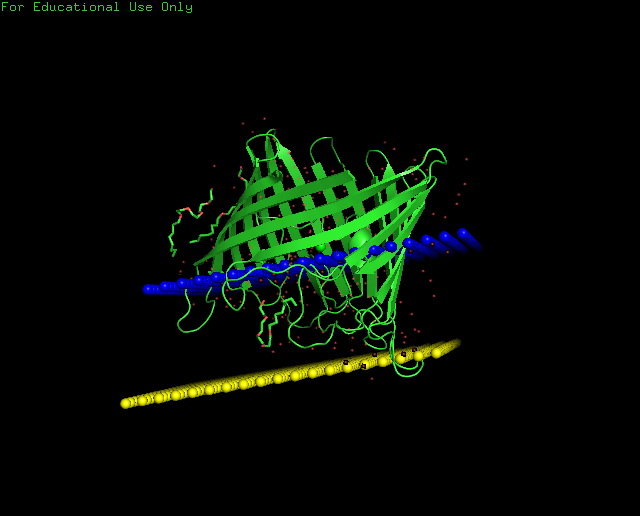
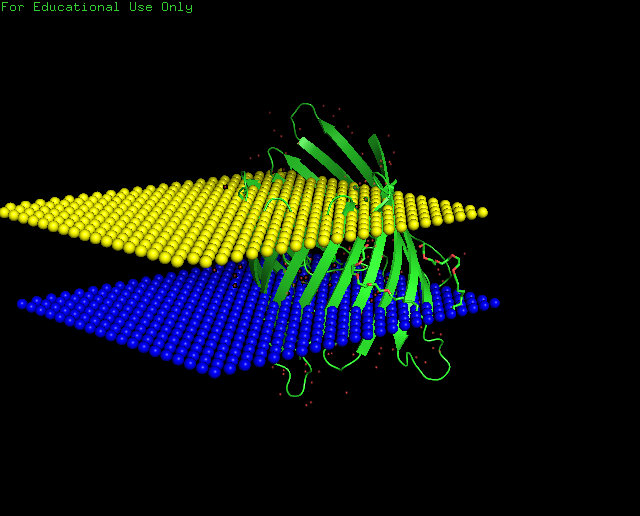
Added the functionnality of optimising th mebrane width

Changed region(s): [[0.0, 0.2171, 0.7812, 0.8062], [0.4688, 0.186, 0.5, 0.2171]]

diff --git a/src/Protein.py b/src/Protein.py
@@ -233,7 +233,7 @@ if __name__ == '__main__':
 
     protein = parse_pdb(args.filename)
     # Number of points
-    n = 10
+    n = 15
 
     directions = Vector.find_points(n, protein.mass_center)
     print("Calculating the planes... ")
@@ -264,8 +264,6 @@ if __name__ == '__main__':
         
         print("BEST AXIS AFTER ABOVE EXPLORATION", best_axis_tmp)
         
-        
-
         # Resetting start positions
         plane1 = Vector.Plane(point=point, normal=normal)
         plane2 = plane1.complementary(14)  # 14 Angstrom, à voir pour la modularité TODO
@@ -302,62 +300,54 @@ if __name__ == '__main__':
     gap = 1
     # Keeping in mynid what was the best axis with the best planes yet :
     best_axis_tmp = copy.deepcopy(best_axis)
-
-    best_axis.plane2.slide_plane(-gap) 
-    print("WIDTH IS NOW", abs(best_axis.plane1.d - best_axis.plane2.d))
+    best_axis.plane2.slide_plane(gap) 
     
     while best_axis.explore_axe_bis(protein.amino_acid_sequence, ref =best_axis_tmp ): 
             print("IN",best_axis.best_ratio, best_axis_tmp.best_ratio)
-            """if  best_axis.best_ratio > best_axis_tmp.best_ratio : 
-                best_axis_tmp = copy.deepcopy(best_axis)
-                print("BEST AXIS IMPROVED BELOW")"""
             # Sliding the planes if necessary
-            best_axis.plane2.slide_plane(-gap)
+            best_axis.plane2.slide_plane(gap)
            
     print("WIDTH 1 IS", abs(best_axis_tmp.plane1.d - best_axis_tmp.plane2.d))
    
     # best_axis_tmp is the best yet
     best_axis_tmp2 = copy.deepcopy(best_axis_tmp)
-    best_axis_tmp.plane2.slide_plane(gap)
+    best_axis_tmp.plane2.slide_plane(-gap)
     while best_axis_tmp.explore_axe_bis(protein.amino_acid_sequence, ref =best_axis_tmp2 ): 
             print("IN2")
             """if best_axis_tmp.best_ratio > best_axis_tmp.best_ratio : 
                 best_axis_tmp2 = copy.deepcopy(best_axis_tmp)"""
                 #print("BEST AXIS IMPROVED ABOVE")
             # Sliding the planes if necessary
-            best_axis_tmp.plane2.slide_plane(gap)
+            best_axis_tmp.plane2.slide_plane(-gap)
             
     print("WIDTH 2 IS", abs(best_axis_tmp2.plane1.d - best_axis_tmp2.plane2.d))
-
+        
     # best_axis_tmp is the best yet
     best_axis_tmp3 = copy.deepcopy(best_axis_tmp2)
     best_axis_tmp2.plane1.slide_plane(-gap)
     while best_axis_tmp2.explore_axe_bis(protein.amino_acid_sequence, ref =best_axis_tmp3 ): 
             print("IN3")
-            """if best_axis_tmp2.best_ratio > best_axis_tmp2.best_ratio : 
-                best_axis_tmp3 = copy.deepcopy(best_axis_tmp2)"""
+           
                 #print("BEST AXIS IMPROVED below")
             # Sliding the planes if necessary
             best_axis_tmp2.plane1.slide_plane(-gap)
             
     print("WIDTH 3 IS", abs(best_axis_tmp3.plane1.d - best_axis_tmp3.plane2.d))
-     # best_axis_tmp is the best yet
+    
+      # best_axis_tmp is the best yet
     best_axis_tmp4 = copy.deepcopy(best_axis_tmp3)
     best_axis_tmp3.plane1.slide_plane(gap)
-    while best_axis_tmp2.explore_axe_bis(protein.amino_acid_sequence, ref =best_axis_tmp4 ): 
+    while best_axis_tmp3.explore_axe_bis(protein.amino_acid_sequence, ref =best_axis_tmp4 ): 
             print("IN4")
-            """if best_axis_tmp3.best_ratio > best_axis_tmp3.best_ratio : 
-                best_axis_tmp4 = copy.deepcopy(best_axis_tmp3)"""
-                #print("BEST AXIS IMPROVED below")
             # Sliding the planes if necessary
             best_axis_tmp3.plane1.slide_plane(gap)
            
     # At the end, the best axis with the good planes positions is in best_axis_tmp2
     #print("BEST AXIS OVERALL IS ", best_axis_tmp2, "WITH PLANES = ", best_axis.plane1, best_axis.plane2)
     print("WIDTH IS", abs(best_axis_tmp4.plane1.d - best_axis_tmp4.plane2.d))
-    best_axis_tmp4.plane1.d = best_axis_tmp4.plane2.d + 20
-    # A mettre à la toute fin : 
-    show_in_pymol(best_axis_tmp4.plane1,best_axis_tmp4.plane2, args.filename, mass_center=protein.mass_center)    
+    show_in_pymol(best_axis_tmp4.plane1,best_axis_tmp4.plane2, args.filename, mass_center=protein.mass_center)
+    # A mettre à la toute fin : """
+    #show_in_pymol(best_axis_tmp4.plane1,best_axis_tmp4.plane2, args.filename, mass_center=protein.mass_center)    
 
   
 

diff --git a/src/Vector.py b/src/Vector.py
@@ -151,7 +151,6 @@ class Axis:
     def explore_axe_bis(self, amino_acid_sequence,ref):
         in_between_planes = []
         number_atoms_in_between = 0 # en vrai sert à rien vu que c'est len de in_between_planes. 
-        number_atoms_hits = 0
         for aa in (amino_acid_sequence):
             if (self.plane1.is_below(aa.point) and self.plane2.is_above(aa.point)) or (self.plane2.is_below(
                     aa.point) and self.plane1.is_above(aa.point)):
@@ -159,7 +158,7 @@ class Axis:
                 in_between_planes.append(aa)
 
         number_atoms_in_between = len(in_between_planes)
-
+        print("NB ATOMS CONSIDERED", number_atoms_in_between)
         # When no more atoms between the two planes, exiting the function, we stop the exploring on this side of the axis
         if number_atoms_in_between == 0:
             print("No more atoms in between")
@@ -170,20 +169,23 @@ class Axis:
         # TODO : améliorer hydrophobicité seulement si le nombre de résidus hydrophobes et le total sont plus grand qu'avant ???
         print("NHITS was", ref.best_number_hits)
         print("N_tot was", ref.best_number_aa)
-        print("HYDROPHOBICITY was",ref.best_hydrophobicity)        
-
-
-        if  hydrophobicity > ref.best_hydrophobicity and n_hits > ref.best_number_hits and n_total > ref.best_number_aa:
+        print("HYDROPHOBICITY was",hydrophobicity)     
+        print("NHITS REF",n_hits)
+        print("N_tot REF", n_total)
+        print("HYDROPHOBICITY REF",ref.best_hydrophobicity)      
+        if  hydrophobicity > ref.best_hydrophobicity and number_atoms_in_between > ref.best_number_aa:
             # Updating the "best" match
             """print("NHITS was", ref.best_number_hits)
             print("N_tot was", ref.best_number_aa)
             print("HYDROPHOBICITY was",ref.best_hydrophobicity)"""
-            # COPIE GENERALE ?
+            print("UPGRADE PLANE REF")
             ref.best_number_hits = n_hits
             ref.best_number_aa = n_total
             ref.best_hydrophobicity = hydrophobicity
             ref.plane1 = copy.deepcopy(self.plane1)
             ref.plane2 = copy.deepcopy(self.plane2)
+
+            return True
 
             """print("NHITS is", ref.best_number_hits)
             print("N_tot is", ref.best_number_aa)
@@ -191,6 +193,7 @@ class Axis:
         else:
             # If its not better
             return False
+        return True
 
 def compute_relative_hydrophobicity(amino_acid_sequence):
     relative_hydrophobicity = 0
@@ -201,7 +204,7 @@ def compute_relative_hydrophobicity(amino_acid_sequence):
     return (relative_hydrophobicity/len(amino_acid_sequence), relative_hydrophobicity, len(amino_acid_sequence))
 
 
-def plot_plane(plane1, plane2=None, point=None):
+"""def plot_plane(plane1, plane2=None, point=None):
     X, Z = np.meshgrid(range(100), range(100))
     # Calculate the corresponding y values for the plane
     # mouais, plutot faire en sorte quil ne soit jamais 0
@@ -219,7 +222,7 @@ def plot_plane(plane1, plane2=None, point=None):
     if plane2 is not None and plane2.d != 0:
         Y2 = (-plane2.a * X - plane2.c * Z - plane2.d) / plane2.b
         ax.plot_surface(X, Y2, Z, color='red', alpha=0.2)
-    plt.show()
+    plt.show()"""
 
 
 # TODO: faire que le demi cercle
@@ -257,7 +260,6 @@ def find_normal_plan(director_vector):
 def caculate_solvant_accessibility(structure, input_file):  # a voir pour identifier le bon aa
     # Using DSSP
     print("Computing solvant accessibility...")
-
     model = structure[0]
     dssp = DSSP(model, input_file)
     # Store ASA values for each residue
@@ -275,7 +277,7 @@ def caculate_solvant_accessibility(structure, input_file):  # a voir pour identi
     return asa_values
 
 
-if __name__ == '__main__':
+"""if __name__ == '__main__':
     # Plot points check
     pdb = "../data/1prn.pdb"
     p = PDBParser()
@@ -312,4 +314,4 @@ if __name__ == '__main__':
         
 
 
-# TODO : Prendre le plus d'aa hits possible dans la tranche avec le meilleur ratio
+# TODO : Prendre le plus d'aa hits possible dans la tranche avec le meilleur ratio"""
